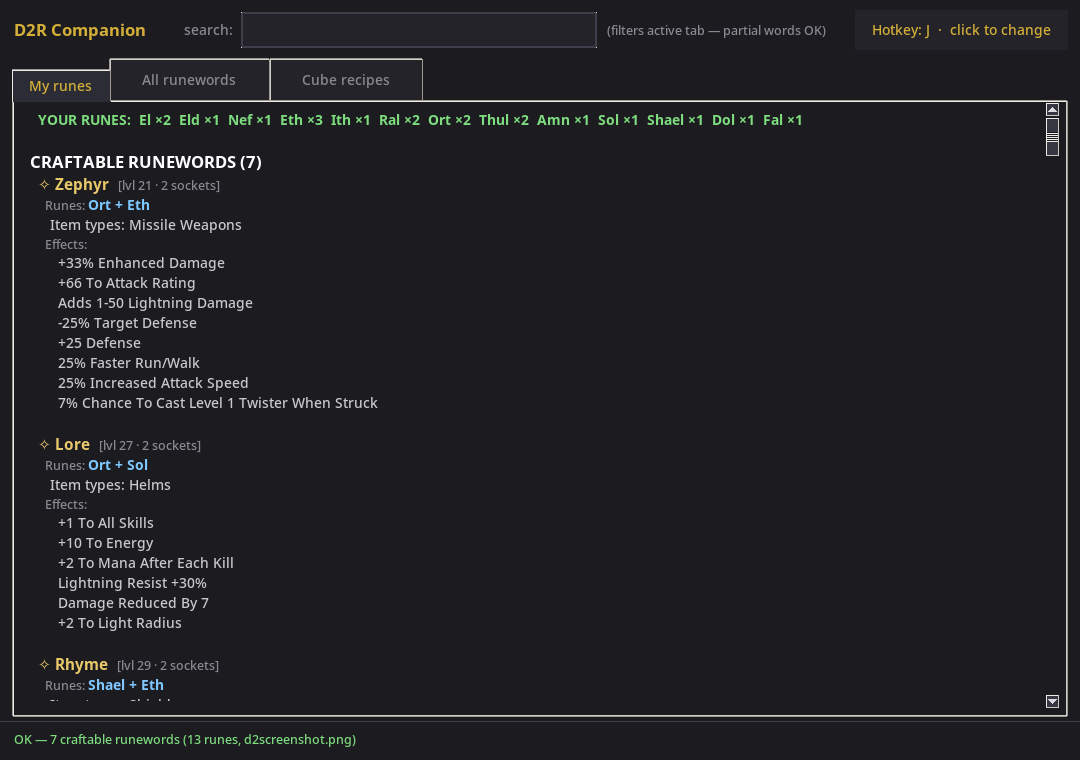
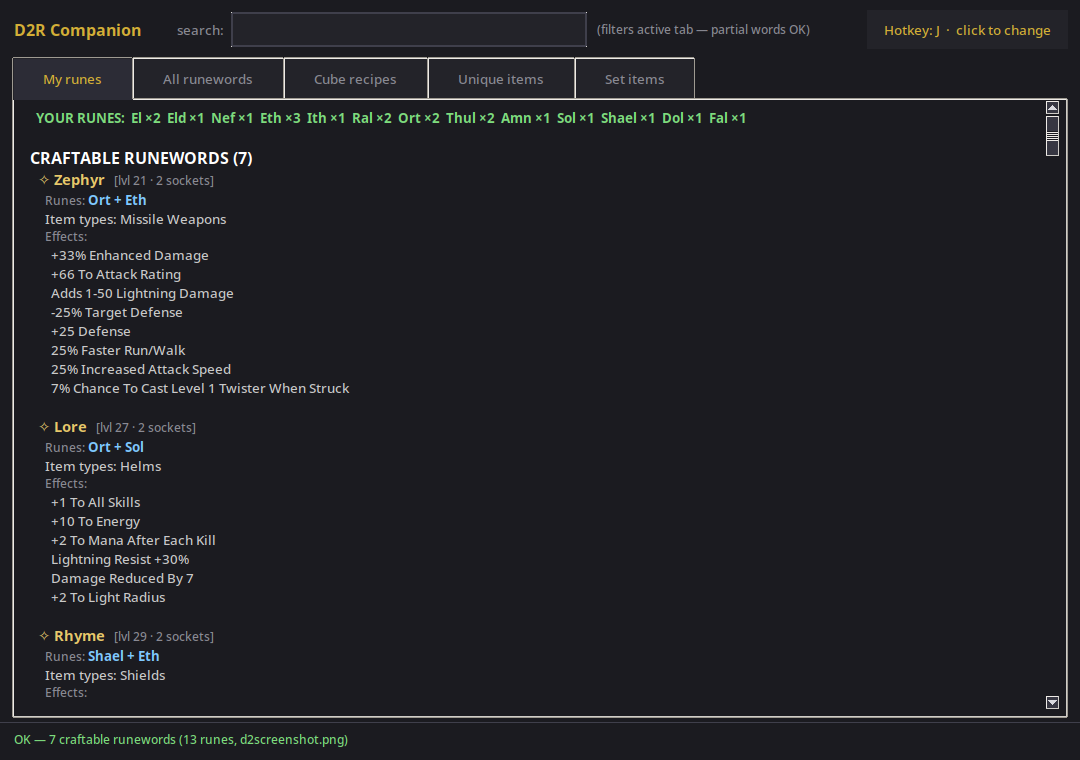
Release v0.1.4

diff --git a/README.md b/README.md
@@ -128,7 +128,7 @@ Running from source needs Python 3 with Pillow, numpy and python-xlib.
 
 Release builds are produced automatically by
 [GitHub Actions](.github/workflows/build-release.yml): push a tag
-(`git tag v0.1.3 && git push origin v0.1.3`) and both platform zips are
+(`git tag v0.1.4 && git push origin v0.1.4`) and both platform zips are
 built and attached to a GitHub Release.
 
 ## Data source
